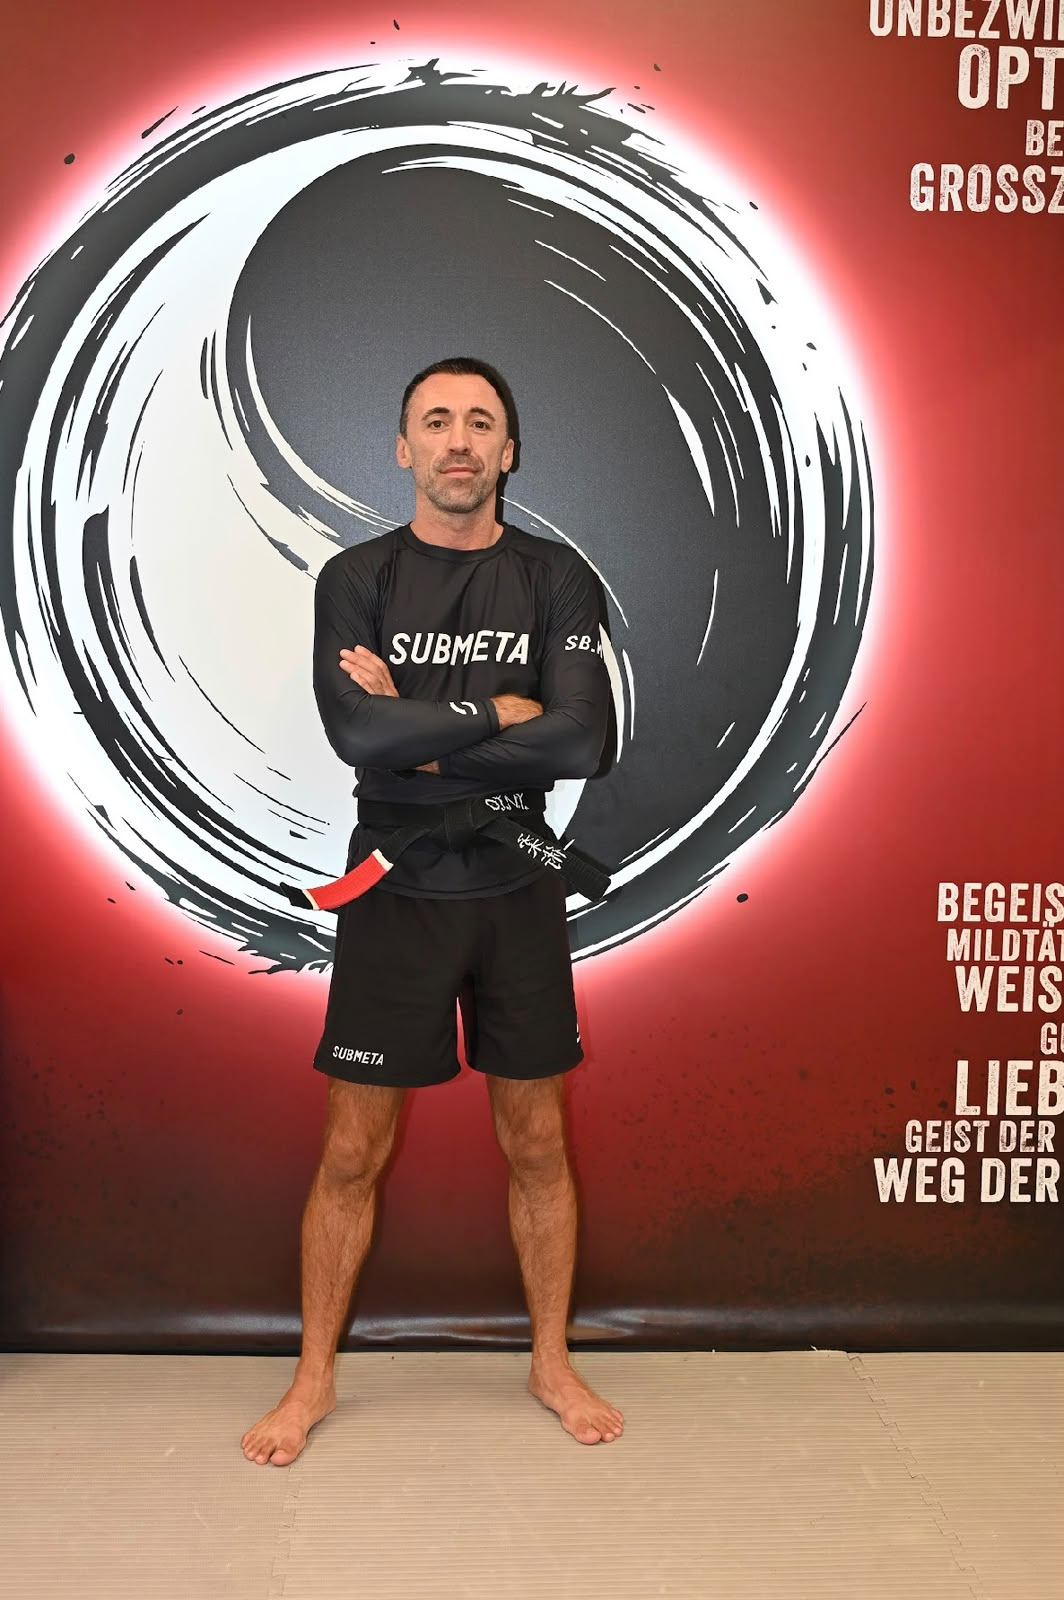
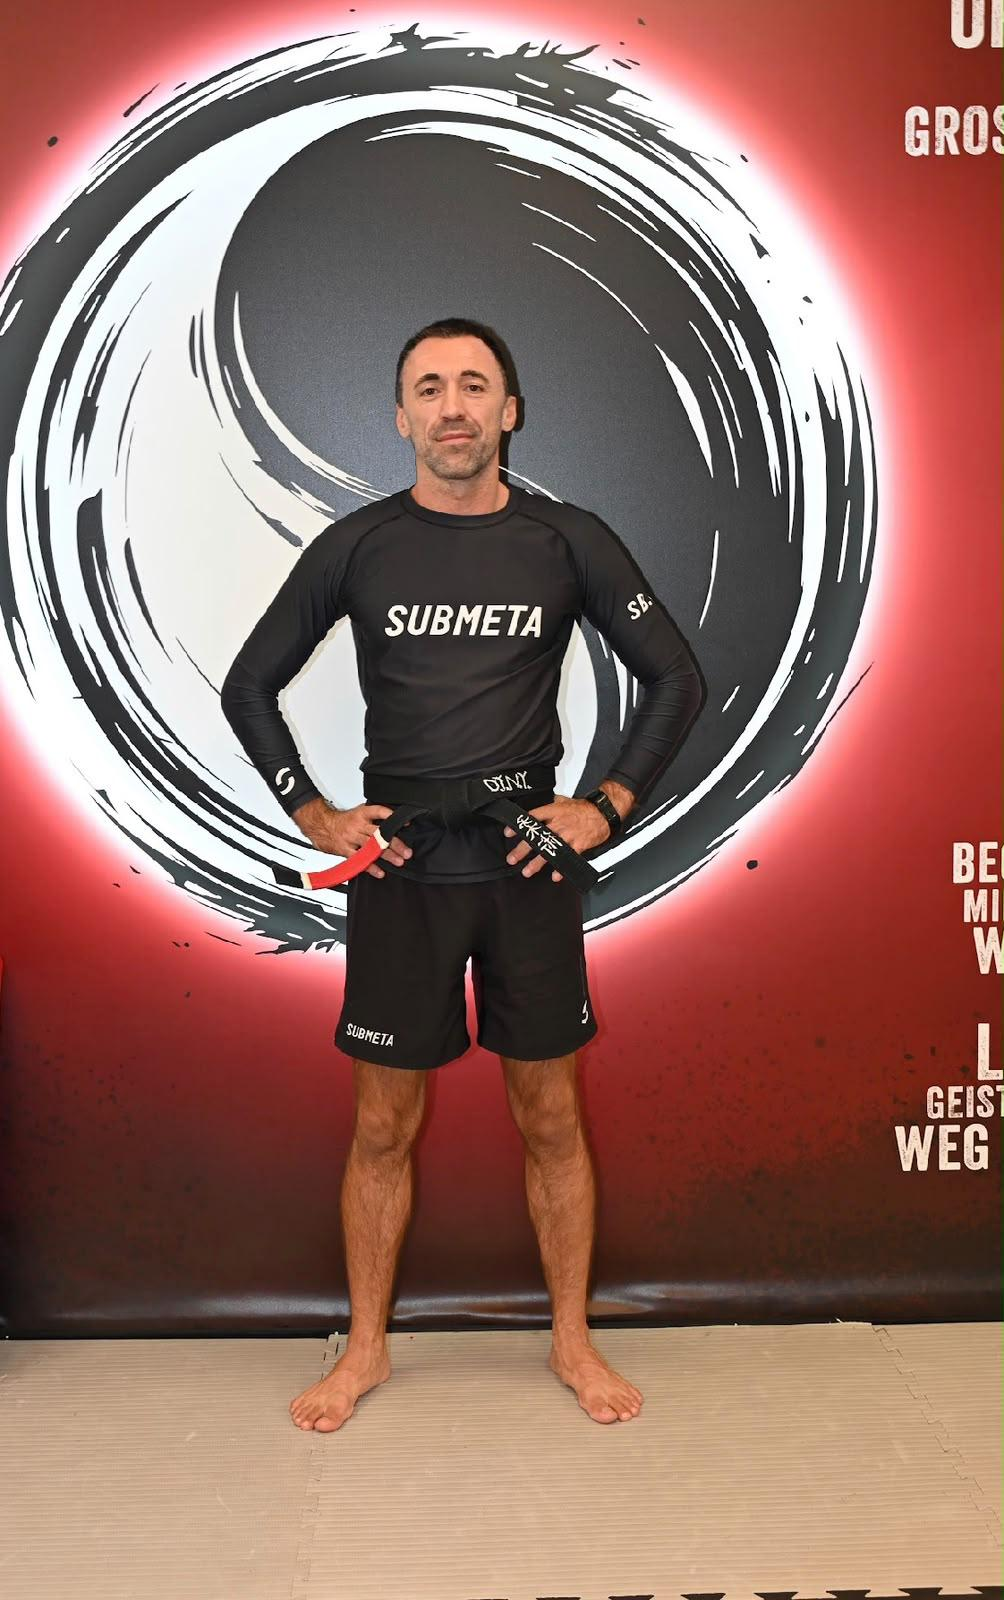
fix(trainer): helleres Wolfi-Foto, Vignette spart die Trainer-Sektion aus
Die fixed Vignette (z-80) dunkelt ab 48 % Radius bis rgba(3,3,4,0.6) ab. Das
Trainer-Karussell ist full-bleed, die aeusseren Karten sassen also in der
dunkelsten Zone — auch aufgehellte Fotos kamen dort wieder dunkel an.

Die Sektion per z-index herauszuheben geht nicht: die Navigation liegt auf
z-50, also unter der Vignette; eine Sektion ueber z-80 wuerde beim Scrollen
ueber den Header laufen. Stattdessen bekommt die Vignette selbst ein Loch per
CSS-Maske, dessen Kanten in Viewport-Prozent aus getBoundingClientRect von
#coaches nachgefuehrt werden (rAF-gedrosselt, Schreiben nur bei Aenderung,
7vh Feder gegen sichtbare Kanten). Steht die Sektion nicht im Bild, liegen
beide Kanten auf 100 % und die Vignette ist unveraendert die alte.

Claude-Session: https://claude.ai/code/session_01ST7FeiZA5UtjpjXrkmcRCG

diff --git a/components/atmosphere.tsx b/components/atmosphere.tsx
@@ -6,9 +6,81 @@
  * Only a hard vignette sits above every section now.
  */
 
-import type { ReactNode } from "react";
+import { useEffect, useRef, type ReactNode } from "react";
+
+/**
+ * Welche Sektionen die Vignette aussparen soll.
+ *
+ * Hintergrund: die Vignette liegt als `position: fixed` ueber dem GANZEN
+ * Viewport und dunkelt ab 48 % Radius bis rgba(3,3,4,0.6) in den Ecken ab.
+ * Das Trainer-Karussell ist full-bleed, die aeusseren Karten sitzen also
+ * genau in der dunkelsten Zone — auch aufgehellte Fotos kamen dort wieder
+ * dunkel an.
+ *
+ * Die Sektion nach oben aus der Vignette herauszuheben (z-index) geht nicht:
+ * die Navigation liegt auf z-50, also UNTER der Vignette (z-80). Eine Sektion
+ * ueber z-80 wuerde beim Scrollen ueber den Header laufen. Deshalb bekommt
+ * stattdessen die Vignette selbst ein Loch, per CSS-Maske, dessen Kanten in
+ * Viewport-Prozent aus der Position der Sektion nachgefuehrt werden.
+ */
+const CUTOUT_SELECTOR = "#coaches";
 
 export function Atmosphere(): ReactNode {
+  const vignetteRef = useRef<HTMLDivElement>(null);
+
+  useEffect(() => {
+    const el = vignetteRef.current;
+    if (!el) return;
+
+    // `mask-image` auf einem fixed Element, das den ganzen Viewport
+    // ueberzieht, ist eine reine Compositing-Operation — kein Layout, kein
+    // Paint der darunterliegenden Sektionen. Die beiden Kanten werden als
+    // Custom Properties geschrieben und nur dann, wenn sie sich wirklich
+    // geaendert haben, damit ein Scroll ohne Coaches im Bild gar nichts tut.
+    let frame = 0;
+    let lastTop = -1;
+    let lastBottom = -1;
+
+    const measure = (): void => {
+      frame = 0;
+      const section = document.querySelector(CUTOUT_SELECTOR);
+      const vh = window.innerHeight || 1;
+
+      // Ausserhalb des Bildes: Loch nach unten aus dem Viewport schieben,
+      // dann ist die Maske durchgehend deckend und die Vignette voll da.
+      let top = 100;
+      let bottom = 100;
+
+      if (section) {
+        const r = section.getBoundingClientRect();
+        if (r.bottom > 0 && r.top < vh) {
+          top = (r.top / vh) * 100;
+          bottom = (r.bottom / vh) * 100;
+        }
+      }
+
+      if (top === lastTop && bottom === lastBottom) return;
+      lastTop = top;
+      lastBottom = bottom;
+      el.style.setProperty("--jjk-vignette-hole-top", `${top}%`);
+      el.style.setProperty("--jjk-vignette-hole-bottom", `${bottom}%`);
+    };
+
+    const schedule = (): void => {
+      if (frame) return;
+      frame = requestAnimationFrame(measure);
+    };
+
+    measure();
+    window.addEventListener("scroll", schedule, { passive: true });
+    window.addEventListener("resize", schedule);
+    return () => {
+      if (frame) cancelAnimationFrame(frame);
+      window.removeEventListener("scroll", schedule);
+      window.removeEventListener("resize", schedule);
+    };
+  }, []);
+
   return (
     <div aria-hidden="true" className="pointer-events-none fixed inset-0 z-[80]">
       {/* Der warme Wash (rgba(255,106,31,...) flach ueber der ganzen Seite)
@@ -28,7 +100,7 @@ export function Atmosphere(): ReactNode {
           das auf jeder hellen/weissen Flaeche sichtbar war und die Seite nie
           richtig sauber weiss wirken liess — site-weit ueber allem, jede
           Sektion, jedes Bild. */}
-      <div className="jjk-vignette" />
+      <div ref={vignetteRef} className="jjk-vignette" />
     </div>
   );
 }

diff --git a/app/globals.css b/app/globals.css
@@ -700,6 +700,34 @@ p,
       rgba(3, 3, 4, 0.28) 82%,
       rgba(3, 3, 4, 0.6) 100%
     );
+
+  /* Loch fuer die Trainer-Sektion.
+     Die beiden Kanten werden von components/atmosphere.tsx in Viewport-
+     Prozent nachgefuehrt; steht die Sektion nicht im Bild, liegen beide auf
+     100% und die Maske ist durchgehend deckend — dann ist die Vignette
+     unveraendert die alte. Die 7vh Feder oben und unten verhindern eine
+     sichtbare Kante beim Hineinscrollen. */
+  --jjk-vignette-hole-top: 100%;
+  --jjk-vignette-hole-bottom: 100%;
+  --jjk-vignette-feather: 7vh;
+  -webkit-mask-image: linear-gradient(
+    to bottom,
+    #000 0,
+    #000 calc(var(--jjk-vignette-hole-top) - var(--jjk-vignette-feather)),
+    transparent var(--jjk-vignette-hole-top),
+    transparent var(--jjk-vignette-hole-bottom),
+    #000 calc(var(--jjk-vignette-hole-bottom) + var(--jjk-vignette-feather)),
+    #000 100%
+  );
+  mask-image: linear-gradient(
+    to bottom,
+    #000 0,
+    #000 calc(var(--jjk-vignette-hole-top) - var(--jjk-vignette-feather)),
+    transparent var(--jjk-vignette-hole-top),
+    transparent var(--jjk-vignette-hole-bottom),
+    #000 calc(var(--jjk-vignette-hole-bottom) + var(--jjk-vignette-feather)),
+    #000 100%
+  );
 }
 
 /* ---- Scanline / interlace, very faint ----------------------------------- */
